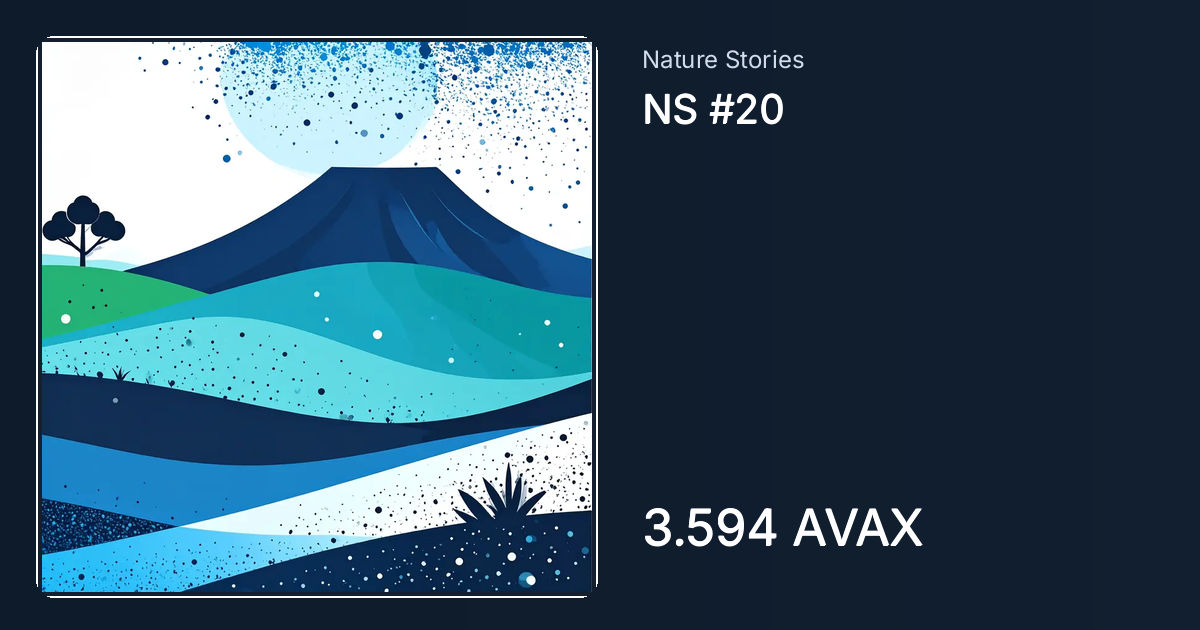
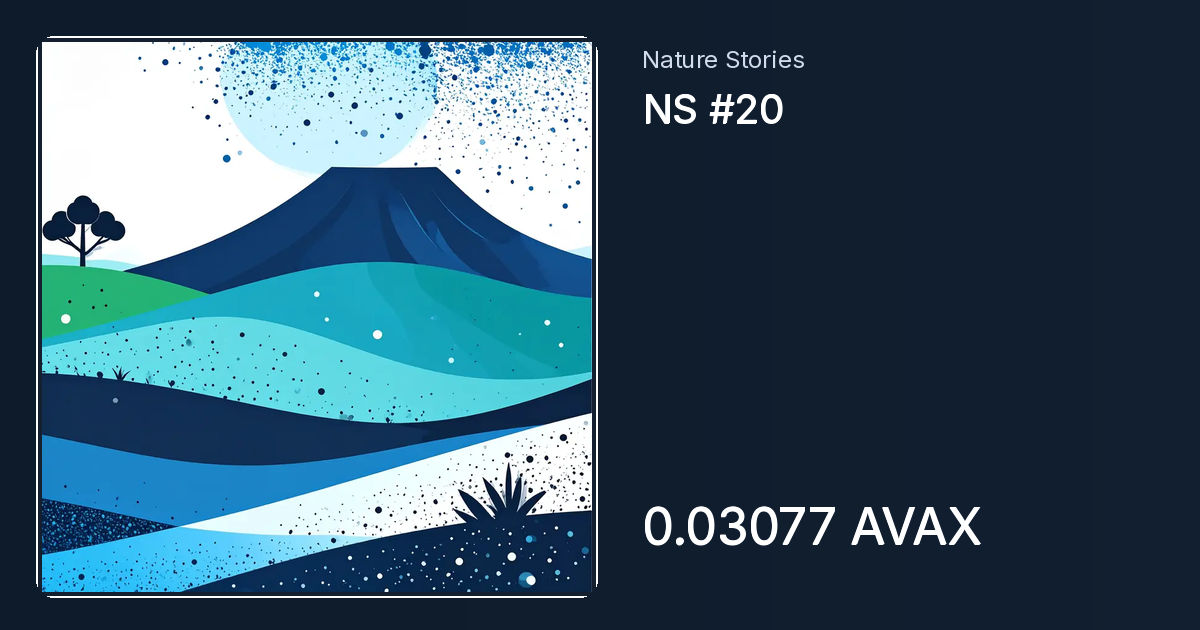
OG landings avalanche_nature_stories

diff --git a/nft/avalanche-nature-stories/20.html b/nft/avalanche-nature-stories/20.html
@@ -3,20 +3,20 @@
 <head>
     <meta charset="UTF-8">
     <meta name="viewport" content="width=device-width, initial-scale=1.0">
-    <meta name="description" content="3.594 AVAX · Nature Stories — Listed">
+    <meta name="description" content="0.03077 AVAX · Nature Stories — Listed">
     <title>NS #20 | Jack Beatnic Gallery</title>
     <meta property="og:type" content="website">
     <meta property="og:url" content="https://jackbeatnic.github.io/nft/avalanche-nature-stories/20.html">
     <meta property="og:title" content="NS #20 | Jack Beatnic Gallery">
-    <meta property="og:description" content="3.594 AVAX · Nature Stories — Listed">
-    <meta property="og:image" content="https://jackbeatnic.github.io/assets/og/avalanche-nature-stories-20.jpg?v=202609190040">
+    <meta property="og:description" content="0.03077 AVAX · Nature Stories — Listed">
+    <meta property="og:image" content="https://jackbeatnic.github.io/assets/og/avalanche-nature-stories-20.jpg?v=202609200032">
     <meta property="og:image:width" content="1200">
     <meta property="og:image:height" content="630">
     <meta name="twitter:card" content="summary_large_image">
     <meta name="twitter:site" content="@JackBeatnicAI">
     <meta name="twitter:title" content="NS #20 | Jack Beatnic Gallery">
-    <meta name="twitter:description" content="3.594 AVAX · Nature Stories — Listed">
-    <meta name="twitter:image" content="https://jackbeatnic.github.io/assets/og/avalanche-nature-stories-20.jpg?v=202609190040">
+    <meta name="twitter:description" content="0.03077 AVAX · Nature Stories — Listed">
+    <meta name="twitter:image" content="https://jackbeatnic.github.io/assets/og/avalanche-nature-stories-20.jpg?v=202609200032">
     <meta name="twitter:image:alt" content="NS #20 | Jack Beatnic Gallery">
     <link rel="canonical" href="https://jackbeatnic.github.io/nft/avalanche-nature-stories/20.html">
     <script>location.replace("https://jackbeatnic.github.io/?work=20&collection=avalanche_nature_stories&section=ai_art&ai=evm&edition=avalanche");</script>

diff --git a/nft/avalanche-nature-jam/20.html b/nft/avalanche-nature-jam/20.html
@@ -9,14 +9,14 @@
     <meta property="og:url" content="https://jackbeatnic.github.io/nft/avalanche-nature-jam/20.html">
     <meta property="og:title" content="JB NJ #0020 | Jack Beatnic Gallery">
     <meta property="og:description" content="Avalanche · Nature Jam — Jack Beatnic Gallery">
-    <meta property="og:image" content="https://jackbeatnic.github.io/assets/og/avalanche-nature-jam-20.jpg?v=202609190040">
+    <meta property="og:image" content="https://jackbeatnic.github.io/assets/og/avalanche-nature-jam-20.jpg?v=202609200032">
     <meta property="og:image:width" content="1200">
     <meta property="og:image:height" content="630">
     <meta name="twitter:card" content="summary_large_image">
     <meta name="twitter:site" content="@JackBeatnicAI">
     <meta name="twitter:title" content="JB NJ #0020 | Jack Beatnic Gallery">
     <meta name="twitter:description" content="Avalanche · Nature Jam — Jack Beatnic Gallery">
-    <meta name="twitter:image" content="https://jackbeatnic.github.io/assets/og/avalanche-nature-jam-20.jpg?v=202609190040">
+    <meta name="twitter:image" content="https://jackbeatnic.github.io/assets/og/avalanche-nature-jam-20.jpg?v=202609200032">
     <meta name="twitter:image:alt" content="JB NJ #0020 | Jack Beatnic Gallery">
     <link rel="canonical" href="https://jackbeatnic.github.io/nft/avalanche-nature-jam/20.html">
     <script>location.replace("https://jackbeatnic.github.io/?work=20&collection=avalanche_nature_jam&section=ai_art&ai=evm&series=nature_jam&edition=avalanche");</script>

diff --git a/nft/sui-nature-stories-tradeport/20.html b/nft/sui-nature-stories-tradeport/20.html
@@ -9,14 +9,14 @@
     <meta property="og:url" content="https://jackbeatnic.github.io/nft/sui-nature-stories-tradeport/20.html">
     <meta property="og:title" content="NS #20 S | Jack Beatnic Gallery">
     <meta property="og:description" content="Sui · Nature Stories SE — Mint">
-    <meta property="og:image" content="https://jackbeatnic.github.io/assets/og/sui-nature-stories-tradeport-20.jpg?v=202609190040">
+    <meta property="og:image" content="https://jackbeatnic.github.io/assets/og/sui-nature-stories-tradeport-20.jpg?v=202609200032">
     <meta property="og:image:width" content="1200">
     <meta property="og:image:height" content="630">
     <meta name="twitter:card" content="summary_large_image">
     <meta name="twitter:site" content="@JackBeatnicAI">
     <meta name="twitter:title" content="NS #20 S | Jack Beatnic Gallery">
     <meta name="twitter:description" content="Sui · Nature Stories SE — Mint">
-    <meta name="twitter:image" content="https://jackbeatnic.github.io/assets/og/sui-nature-stories-tradeport-20.jpg?v=202609190040">
+    <meta name="twitter:image" content="https://jackbeatnic.github.io/assets/og/sui-nature-stories-tradeport-20.jpg?v=202609200032">
     <meta name="twitter:image:alt" content="NS #20 S | Jack Beatnic Gallery">
     <link rel="canonical" href="https://jackbeatnic.github.io/nft/sui-nature-stories-tradeport/20.html">
     <script>location.replace("https://jackbeatnic.github.io/?work=20&collection=sui_nature_stories_tradeport&section=ai_art&ai=sui");</script>

diff --git a/nft/xrpl-jb-ai-nature/20.html b/nft/xrpl-jb-ai-nature/20.html
@@ -9,14 +9,14 @@
     <meta property="og:url" content="https://jackbeatnic.github.io/nft/xrpl-jb-ai-nature/20.html">
     <meta property="og:title" content="JBN #20 X | Jack Beatnic Gallery">
     <meta property="og:description" content="0.1 XRP · Jack Beatnic — Mint">
-    <meta property="og:image" content="https://jackbeatnic.github.io/assets/og/xrpl-jb-ai-nature-20.jpg?v=202609190040">
+    <meta property="og:image" content="https://jackbeatnic.github.io/assets/og/xrpl-jb-ai-nature-20.jpg?v=202609200032">
     <meta property="og:image:width" content="1200">
     <meta property="og:image:height" content="630">
     <meta name="twitter:card" content="summary_large_image">
     <meta name="twitter:site" content="@JackBeatnicAI">
     <meta name="twitter:title" content="JBN #20 X | Jack Beatnic Gallery">
     <meta name="twitter:description" content="0.1 XRP · Jack Beatnic — Mint">
-    <meta name="twitter:image" content="https://jackbeatnic.github.io/assets/og/xrpl-jb-ai-nature-20.jpg?v=202609190040">
+    <meta name="twitter:image" content="https://jackbeatnic.github.io/assets/og/xrpl-jb-ai-nature-20.jpg?v=202609200032">
     <meta name="twitter:image:alt" content="JBN #20 X | Jack Beatnic Gallery">
     <link rel="canonical" href="https://jackbeatnic.github.io/nft/xrpl-jb-ai-nature/20.html">
     <script>location.replace("https://jackbeatnic.github.io/?work=20&collection=xrpl_jb_ai_nature&section=ai_art&ai=xrpl");</script>
